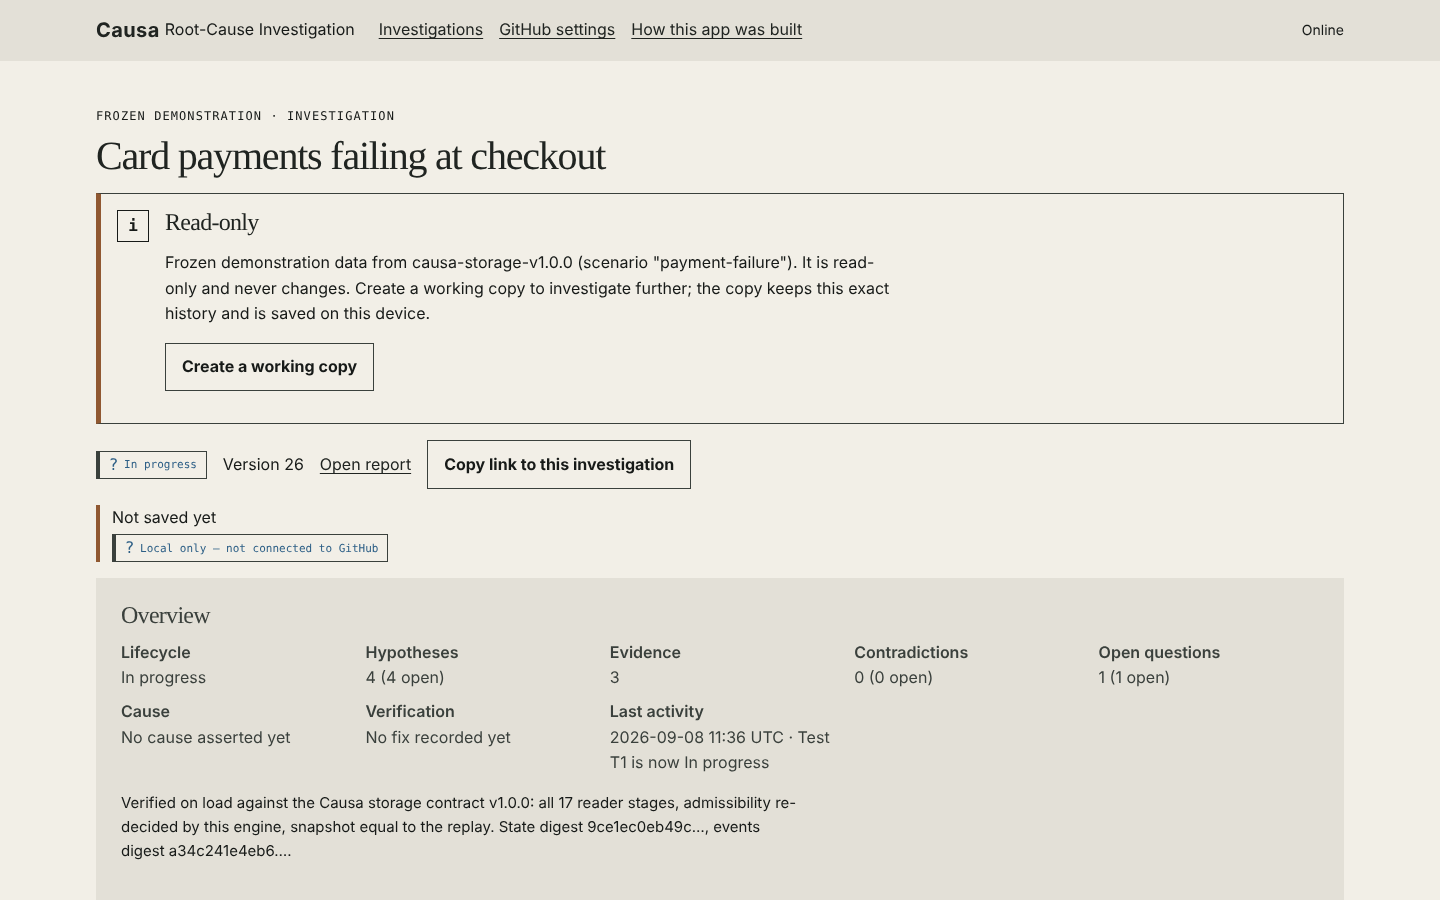
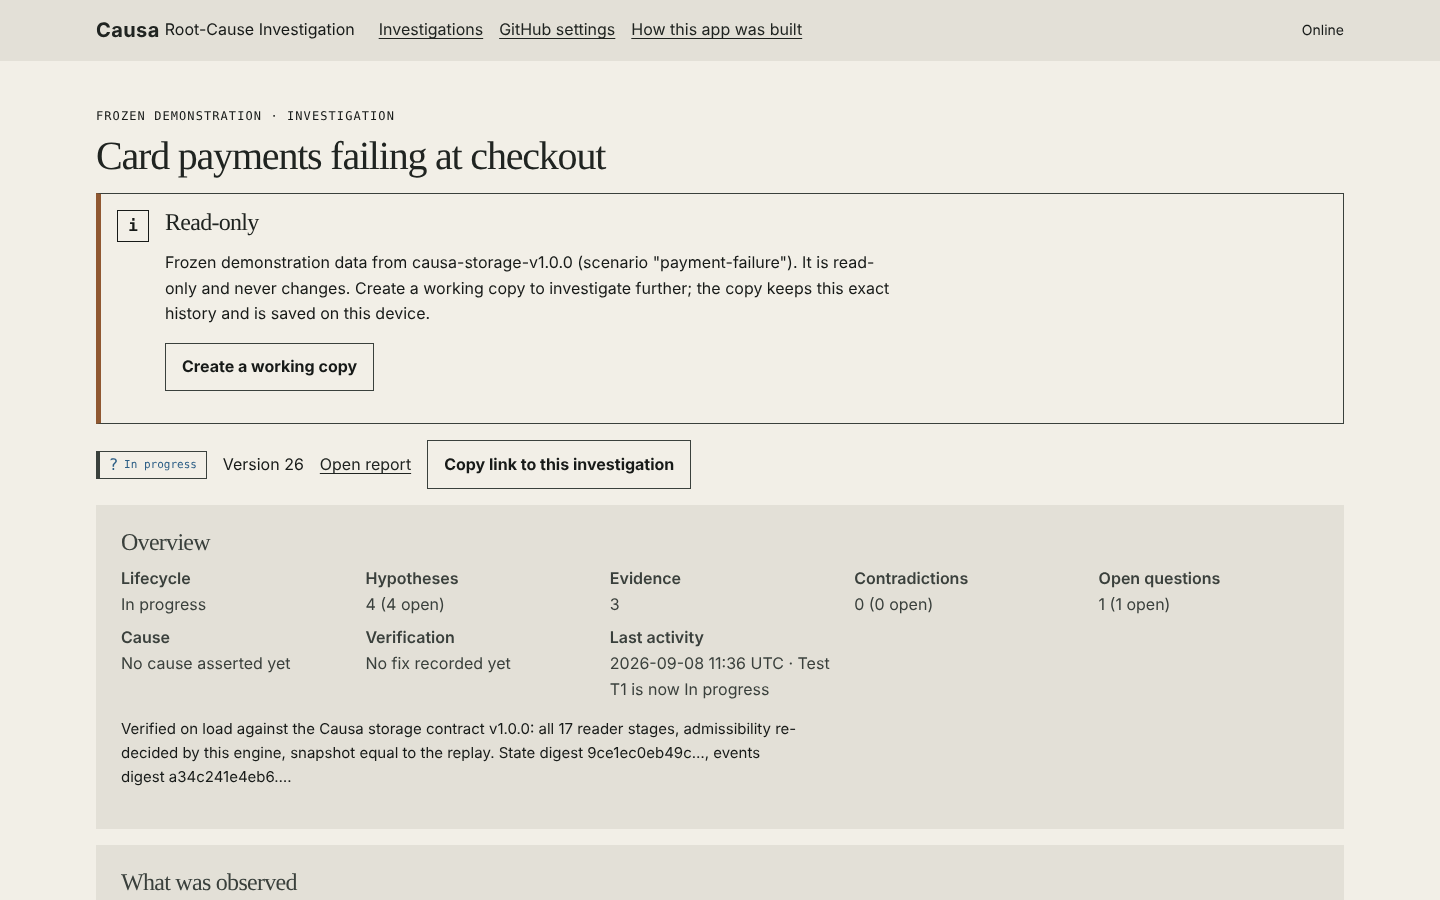
evidence: deployment 2 verification, refreshed after-screenshots, RESULT (PARTIAL)
Claude-Session: https://claude.ai/code/session_01AiSUUAEKf1AyR7PnLf1uf1

diff --git a/evidence/causa-integration/RESULT.md b/evidence/causa-integration/RESULT.md
@@ -1,0 +1,185 @@
+# RESULT — CAUSA-REHEARSAL-INTEGRATION-001
+
+## Classification: **PARTIAL**
+
+**What works, and how it was shown.**
+- **Frozen data.** The rehearsal app loads the frozen Causa storage release v1.0.0 and verifies every byte in the
+  browser. It replays all five investigations to the digests the release lock pins, refuses corrupted or non-pinned
+  data with the contract's codes, and shows the investigations under the Causa brand with an overview and the
+  engine's next permitted actions.
+- **Working copies and GitHub.** Working copies are saved as Causa v1 file sets. They are published to GitHub through
+  a new adapter written to the Git Data API requirements, one atomic commit per change.
+- **Tests.** Everything passed in every configured browser:
+  - engine tests;
+  - the full Playwright suite;
+  - the new integration tests, including Firefox and WebKit;
+  - a live run against the real `api.github.com` (twice).
+- **Deployment.** The existing Pages workflow deployed it, and the live site was checked independently.
+- **Review.** An independent adversarial review found no critical defect. All 5 major findings were fixed and
+  regression-tested.
+
+**Why not PASS.**
+- **Provider gate incomplete.** PROVIDER-GITHUB.md §0.3 makes a build with a GitHub adapter a provider-gate PASS
+  only with evidence for every `AC-PROV-*` row. This build's provider has **no automatic re-decision**
+  (CAUSA-PROV-28):
+  - AC-PROV-03 is partial; AC-PROV-04 and -05 are not met.
+  - Instead, a conflict is never overwritten, and the person chooses between GitHub's verified copy and a new run.
+- **Other partial or inapplicable rows:**
+  - AC-PROV-15: one commit per working copy instead of one for all five.
+  - AC-PROV-16: a per-investigation queue without command inputs.
+  - AC-PROV-23: not applicable, because the dataset is vendored rather than read from GitHub.
+- **Unmeasured:** real iPad Safari and screen readers.
+
+**Why not FAIL or BLOCKED.**
+- Every functional acceptance item of the mission was met and verified.
+- Live GitHub persistence was **actually verified**, not assumed. It ran on the real API, with each claim checked
+  by an independent read by SHA.
+
+## Identities
+
+| item | value |
+|---|---|
+| Repository | `kemiller2002/indy-init-rehearsal-001` (updated in place; no new experiment or repository; R002 not started) |
+| Baseline (= R001 close-out, deployed before) | `55f49f61c939a3a780cee592f36f732a1328f981`; R001 accepted release `dffaf082ca6b475231d7b21198876bf0c43fc3df` preserved |
+| Integration release | PR #8, head `8c629453aa78c1d9543a56d5a79235b23ee8275e`, merged as **`2d1fb29078aaceb297cef35c50f15168ad0a154d`** |
+| Follow-up | PR #9 (frozen-view save status hidden; evidence), merged as **`5d5f123a5d82572fd8f9faa9163e837f51e25afa`** |
+| Deployments | Pages run #9 [39939703764](https://github.com/kemiller2002/indy-init-rehearsal-001/actions/runs/39939703764) (`2d1fb29`); run #10 [39944028563](https://github.com/kemiller2002/indy-init-rehearsal-001/actions/runs/39944028563) (`5d5f123`) |
+| Praxis | work item `CAUSA-REHEARSAL-INTEGRATION-001`, execution `EXE-20261023T081832699Z-2539c4b3` |
+
+### Versions
+
+| component | baseline | now |
+|---|---|---|
+| Forma (`@echelon-foundry/design-system`) | 0.5.0 | **0.9.0** (pinned in `.echelon/foundations.json`) |
+| Limen | 0.9.0 | 0.9.0 |
+| Folio | 0.3.0 | 0.3.0 |
+| Ordo / Praxis / Aegis | 1.5.0 / 3.16.0 / 1.0.0 | unchanged |
+| F# engine semantics (`Decide`, `Model`, `Commands`, `Primitives`) | `55f49f6` | **unchanged** (the contract's semantic oracle) |
+| .NET | 10 | 10 |
+
+### Contract identity
+
+| item | value |
+|---|---|
+| Release | `kemiller2002/causa-data` tag `causa-storage-v1.0.0` (tag object `fd2991a3…`, commit `c947c7e354be80766573a782546c8186336774cc`) |
[3 lines of base64/hex data omitted]
+| Requirements | Indy-init `requirements/causa/data/v1.0.0` (CAUSA-DATA-001, PROVIDER-GITHUB.md) |
+
+The frozen tag and its fixtures were never modified. The vendored copy is checked against the lock on every build
+(176 files) and again in the browser.
+
+## Replay results
+
+All five replay to the lock's state digests in .NET, in the browser (WebAssembly) and on the live site:
+
+| scenario | version | lifecycle | state SHA-256 |
+|---|---|---|---|
+| payment-failure | 26 | active | `9ce1ec0e…` |
+| authentication-outage | 59 | resolved | `cd3ea94c…` |
+| conflicting-metrics | 28 | active | `f189ac3b…` |
+| intermittent-outage | 37 | awaitingEvidence | `289c26e5…` |
+| api-latency | 34 | awaitingVerification | `2ba34140…` |
+
+- **Corrupted stream** (`aggregateVersion` 3→4 in one line): `CAUSA.EVENTS_HASH_MISMATCH`. That investigation is
+  refused, and the other four load (.NET and the real page).
+- **Non-pinned dataset:** `CAUSA.FIXTURE_DRIFT`; the whole dataset is refused.
+
+## Test counts
+
+| suite | result | where |
+|---|---|---|
+| Engine | **188 / 188** (154 baseline − 14 legacy adapter tests removed with the adapter + 48 new) | CI and local |
+| Browser, release candidate `8c62945` | **133 / 133**, 0 flaky, 0 skipped. Chromium desktop 39, Chromium iPad-emulation portrait 8, landscape 8, **WebKit 39**, **Firefox 39** | CI run 39937438604 |
+| Browser against the live URL (accept, `2d1fb29`) | **94 / 94** | Pages run #9 |
+| Browser against the live URL (accept, `5d5f123`) | **93 passed, 1 flaky** (an R001 journey test timed out while the page booted on its first attempt and passed on retry; recorded as flaky, cause not established), 0 failed | Pages run #10 |
+| Live GitHub persistence | **pass** on `a0ce5ab`, `fe5d347` and `f5b9f12` (PR #9 head) | runs 39933658628, 39936822179, 39941861418 |
+| Provider gate (fake GitHub) | 31 provider cases + 15 shell GitHub cases; AC-PROV statuses in PERSISTENCE-VALIDATION.md | engine suite |
+
+No test was skipped or disabled. A browser project that executes no test now fails CI.
+
+## Live persistence results
+
+Run 39936822179 (`fe5d347`) published to the real `api.github.com`, branch `causa-workspace`, run
+`demo-20261023-100923-f80d80`. Everything was verified by independent SHA reads:
+
+| step | result |
+|---|---|
+| working copy | commit `87c113de`; frozen bytes exactly (events SHA-256 `a85cec5e…`) |
+| append | commit `fa6d1fe0`, one parent; GitHub equals the device byte for byte; author `causa-adapter` |
+| reload | still confirmed; the token was not stored and was asked for again |
+| second device | recovered the run; bytes identical |
+| concurrent write | stale write refused (`CAUSA.VERSION_STALE`); GitHub head unchanged at the other device's commit `ee86a895`; nothing overwritten |
+| adopt on request | GitHub's version adopted; the replaced version kept as a conflict copy |
+
+## Accessibility
+
+- **axe:** no serious or critical violations (AC-14) on home, workspace, report and factory, in Chromium, WebKit and
+  Firefox. One contrast regression from this mission was caught by axe and fixed.
+- **Keyboard:** an investigation is created, and the demonstration list and a frozen investigation are used, by
+  keyboard alone.
+- **Reflow:** no horizontal scrolling on the list and a detail page at 200% text, phone 390×844, tablet 834×1194
+  and 1194×834 (test). On the live site: 0 px overflow in four viewports.
+- **Forma 0.9.0 with C1/C3/C5:** experiment arm C, without C4, measured 1/20 pages overflowing at 200%, against
+  6/20 at the baseline.
+
+## Deployment evidence
+
+- Pages run #9 deployed `2d1fb29`; the live `build-info.json` names it; accept passed 94/94.
+- Independent check of the live site:
+  - title and brand "Causa · Root-Cause Investigation";
+  - 5 cards and 0 refusals;
+  - each investigation opens with its golden-matching data and pinned digest, read-only;
+  - **no** console errors, failed requests or HTTP ≥ 400 (the baseline favicon 404 is gone).
+- Follow-up run #10: Pages run #10 deployed `5d5f123`; `build-info.json` names it; accept 93 passed + 1 flaky. The independent check was repeated: all clean, and the frozen view no longer shows a save status.
+- The R001 evidence and release identity are unchanged.
+
+## Screenshots
+
+- `screenshots/before/`: the baseline, live `55f49f6`.
+- `screenshots/after/`: the live release, desktop, tablet (portrait and landscape) and mobile, list and detail.
+
+## Limitations
+
+1. **Provider gate incomplete.**
+   - There is no automatic re-decision (AC-PROV-03 partial, -04 and -05 not met).
+   - Working copies are one commit per investigation (AC-PROV-15 partial).
+   - The queue is per investigation and has no command inputs (AC-PROV-16 partial).
+   - AC-PROV-23 is not applicable.
+2. **Browser platform constraints.**
+   - Storage is `localStorage`, not IndexedDB, and there is no `persist()`.
+   - There are no timer-driven retries.
+   - The fetch `cache`, `redirect` and `referrerPolicy` options cannot be set from Limen. Ref reads use nonce URLs,
+     and same-origin redirects are followed.
+3. **Local concurrency.** The fast-forward check is a read followed by a write, and two windows can still race in
+   between: `localStorage` has no compare-and-set.
+4. **Unprotected data branch.** `causa-workspace` has no force-push protection, which cannot be configured from this
+   session. The rewind window of CAUSA-PROV-16 §4 is open.
+5. **Run id.** A new run id is not checked for absence at the head. A collision would be `refused`, never an
+   overwrite.
+6. **Not measured.**
+   - Real iPad Safari: the iPad projects are Chromium emulation, and WebKit is not Safari.
+   - Screen readers.
+   - True browser zoom: the 200% check is a root-font proxy.
+7. **Conflict copies cannot be listed.** They are stored on the device but no UI lists, exports or restores them.
+8. **One flaky test in the final accept run.** R001's `[R15.2][R15.5]` journey test did not reach
+   `data-kernel = running` within 15 s on its first attempt against the live site (Pages run #10). It passed on
+   retry, and it passed first time everywhere else. The cause is not established.
+9. **Live persistence was proven with the job's `GITHUB_TOKEN`.** A person using the deployed site supplies their own
+   fine-grained token at run time, held in memory only.
+
+## Evidence index
+
+- `BASELINE.md`
+- `CONTRACT-INTEGRATION.md`
+- `FORMA-UPGRADE.md`
+- `PERSISTENCE-VALIDATION.md`
+- `BROWSER-TESTS.md`
+- `DEPLOYMENT-VERIFICATION.md`, with `deployed-verification.json`
+- `ADVERSARIAL-REVIEW.md`, with `ADVERSARIAL-REVIEW-REPORT.md`
+- `screenshots/`
+
+## Link
+
+https://kevinmmiller.us/indy-init-rehearsal-001/

diff --git a/evidence/causa-integration/DEPLOYMENT-VERIFICATION.md b/evidence/causa-integration/DEPLOYMENT-VERIFICATION.md
@@ -66,4 +66,30 @@ below.
 
 ## Deployment 2: follow-up (frozen-view save status)
 
-Not deployed yet when this revision was written. It is recorded here once its own deploy run has finished and has been checked on the live site.
+| item | value |
+|---|---|
+| Merged | PR #9, head `f5b9f128b158622ab06c0935ef9c9d58051d898f`. Its checks: build-and-test ✓, foundations ✓, validate ✓, live GitHub persistence ✓ (third live pass, run [39941861418](https://github.com/kemiller2002/indy-init-rehearsal-001/actions/runs/39941861418)) |
+| Deployed commit | **`5d5f123a5d82572fd8f9faa9163e837f51e25afa`** (merge commit on `main`) |
+| Workflow | Deploy to GitHub Pages **#10**, run [39944028563](https://github.com/kemiller2002/indy-init-rehearsal-001/actions/runs/39944028563): verify-and-build ✓ (engine tests on the commit), deploy ✓, accept ✓ |
+| Served identity | live `build-info.json` = `{"commit": "5d5f123a5d82572fd8f9faa9163e837f51e25afa", "builtAt": "2026-10-23T11:11:04.162Z"}` |
+| Accept job (live URL) | **93 passed, 1 flaky, 0 failed**, of 94 tests (job 120383172940; artifact `deployed-acceptance` 12498565263) |
+
+**The flaky test.** R001's journey test `[R15.2][R15.5] AI-suggested hypothesis…` on chromium-desktop failed its first
+attempt and passed on its retry.
+- **What failed:** while opening the page, `data-kernel` did not become `running` within 15 s, a boot timeout. It
+  failed before any step of the test itself ran.
+- **Context:** the same test passed first time in the run #9 accept, in every CI project of PR #8 and PR #9, and in
+  all local runs.
+- **Root cause:** not established. It is recorded as **flaky**, not as a pass.
+
+**Independent check of the live site at `5d5f123`** (2026-10-23, after 11:22 UTC; this replaces
+`deployed-verification.json`):
+- Desktop, tablet (both orientations) and mobile each show 5 cards and 0 refusals.
+- Horizontal overflow is 0 px on the list and on a detail page.
+- There were **no** console errors, page errors, failed requests or HTTP ≥ 400 responses.
+- All five investigations open with golden-matching hypothesis and evidence counts, the pinned state digest, and no
+  form.
+- **No save status is shown** on any frozen original (`local-status` and `remote-status` are absent): the fix is live.
+- The screenshots in `screenshots/after/` were retaken from this deployment.
+
+**R001 evidence.** It is still unchanged at `5d5f123`: only `evidence/causa-integration/` differs from `55f49f6`.
